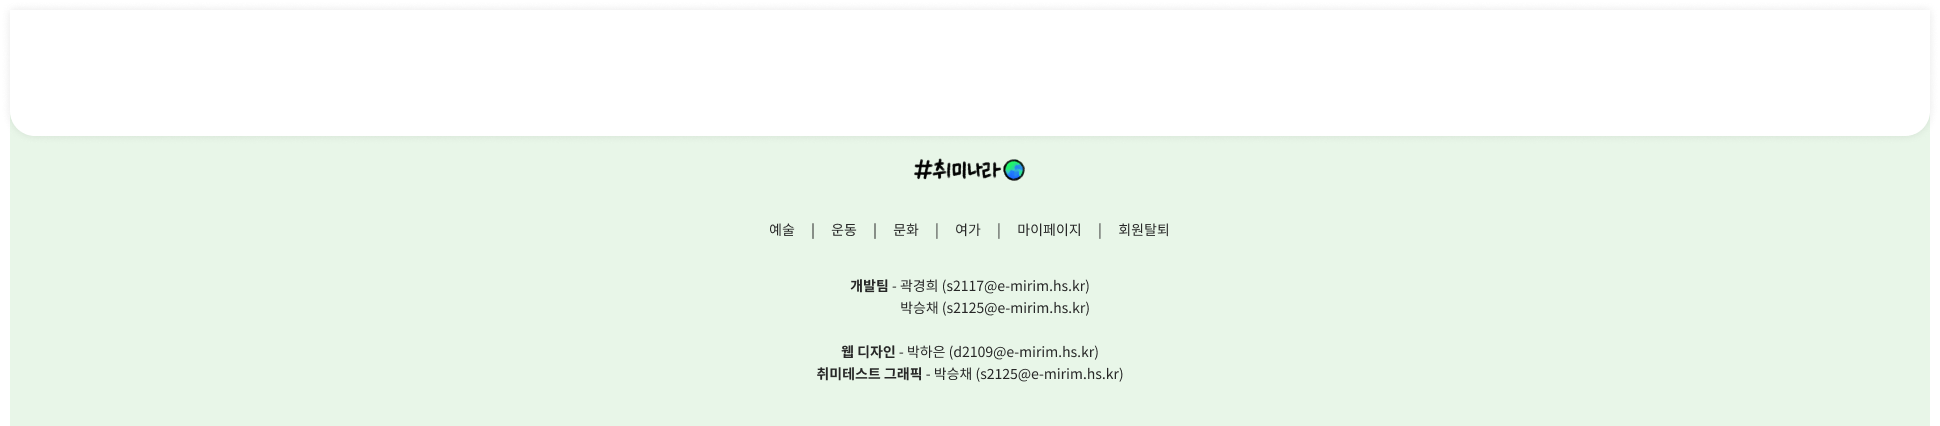
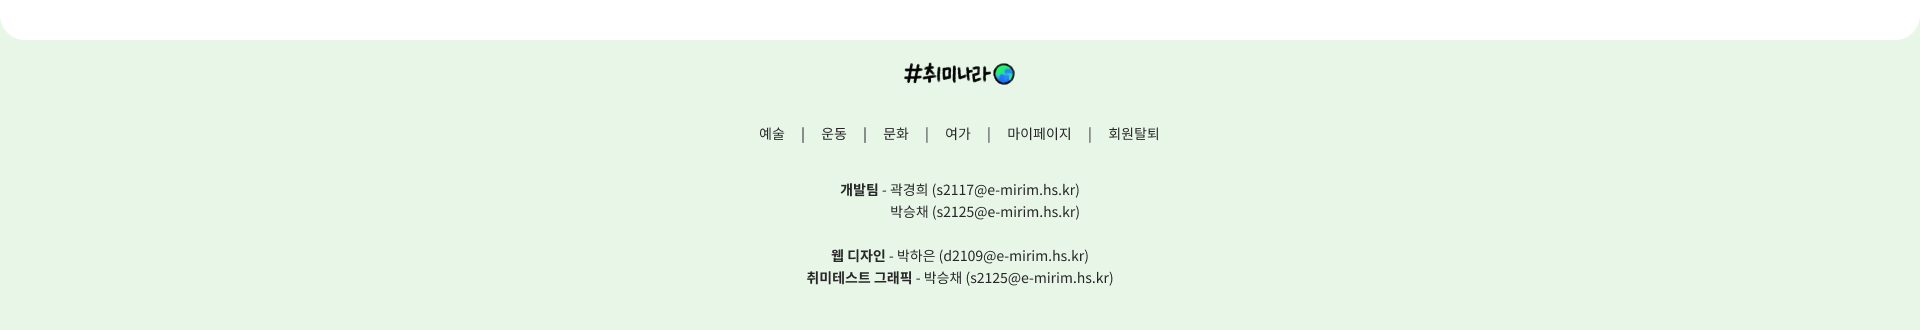
footer, write css 수정

Changed region(s): [[0.375, 0.5152, 0.625, 0.9091], [0.375, 0.3636, 0.625, 0.4242], [0.4688, 0.1818, 0.5312, 0.2727]]

diff --git a/write1.css b/write1.css
@@ -265,18 +265,6 @@ input {
   text-align: center;
 }
 
-/* footer */
-footer {
-  width: 100%;
-  height: 260px;
-  background-color: #f5f5f5;
-  margin-top: 150px;
-}
-footer > div > img {
-  width: 95px;
-  margin-left: 300px;
-}
-footer > div {
-  margin: 20px 50px 0 0;
-  float: left;
+#footer {
+  margin-top: 191px;
 }

diff --git a/user_write.css b/user_write.css
@@ -83,6 +83,8 @@ body {
   width: 58px;
   height: 27px;
   font-size: 15px;
+  margin-top: 20px;
+  margin-left: 1050px;
 }
 .logo {
   text-decoration: none;

diff --git a/write.php b/write.php
@@ -174,35 +174,22 @@
       </div>
 
 <!-- 로그인 박스 --> 
-<div class="dialog">
-<div onclick="close_d()" class="close"></div>
-<h2 class="title">LOGIN</h2>
-<form method="post" action="./login.php">
-<table class="login_t">
-  <tr><td class="login_td">아이디</td><td class="login_td"><input type="text" name="uid"></td></tr>
-  <tr><td class="login_td">비밀번호</td><td class="login_td"><input type="password" name="upass"></td></tr>
-</table>
-<div class="btn"><button type="submit">login</button></div>
-<div class="join">아직 회원이 아니신가요? <a href="./join.html">회원가입</a></div>
-</form>
+      <div class="dialog">
+        <div onclick="close_d()" class="close"></div>
+          <h2 class="title">LOGIN</h2>
+          <form method="post" action="./login.php">
+            <table class="login_t">
+              <tr><td class="login_td">아이디</td><td class="login_td"><input type="text" name="uid"></td></tr>
+              <tr><td class="login_td">비밀번호</td><td class="login_td"><input type="password" name="upass"></td></tr>
+            </table>
+            <div class="btn"><button type="submit">login</button></div>
+            <div class="join">아직 회원이 아니신가요? <a href="./join.html">회원가입</a></div>
+          </form>
+        </div>
       </div>
-      
-  </div>
 
-  <footer>
-        <div>
-            <img src="./img/logo.png">
-        </div>
-        <div>
-          <a>예술</a> <a>운동</a> <a>문화</a> <a>여가</a> <a>마이페이지</a> <a>회원탈퇴</a> <br>
-            
-            개발팀 <div class="f_content">-곽경희 (s2117@e-mirim.hs.kr)</div>
-            <div class="f_content">박승채 (s2125@e-mirim.hs.kr)</div>
-
-            웹디자인 <div class="f_content">-박하은 (d2109@e-mirim.hs.kr)</div>
-            취미테스트 그래픽 <div class="f_content">-박승채 (s2125@e-mirim.hs.kr)</div>
-            
-        </div>
-    </footer>
+      <div id="footer">
+        <img src="./img/footer_img2.png" id="footer_img"></img>
+      </div>
   </body>
 </html>

diff --git a/user_write.php b/user_write.php
@@ -40,7 +40,7 @@ mysqli_query($conn, $query);
               if($profile == "") $profile="./img/profile_img.png";
 
               echo "<div class='userid'>".$id."님</div>";
-              echo "<div class='profile_img' onclick='uesr()'><img src='$profile'></div>";
+              echo "<div class='profile_img' onclick='uesr()'></div>";
                 echo "<div class='userdrop'>
                         <ul>
                           <li><a href='profile.php'>프로필</a></li>
@@ -89,7 +89,7 @@ mysqli_query($conn, $query);
         </div>
     </form>
     <div id="footer">
-        <img src="./img/footer_img.png" id="footer_img"></img>
+        <img src="./img/footer_img2.png" id="footer_img"></img>
     </div>
 </body>
 </html>

diff --git a/index.php b/index.php
@@ -187,7 +187,7 @@
             <button type="button" id="write" class="btn btn-default" ><a href="write.php"><img src="./img/write_icon.png"></a></button>
           </span>
         <div id="footer">
-          <img src="./img/footer_img.png" id="footer_img"></img>
+          <img src="./img/footer_img2.png" id="footer_img"></img>
         </div>
 </body>
 </html>
